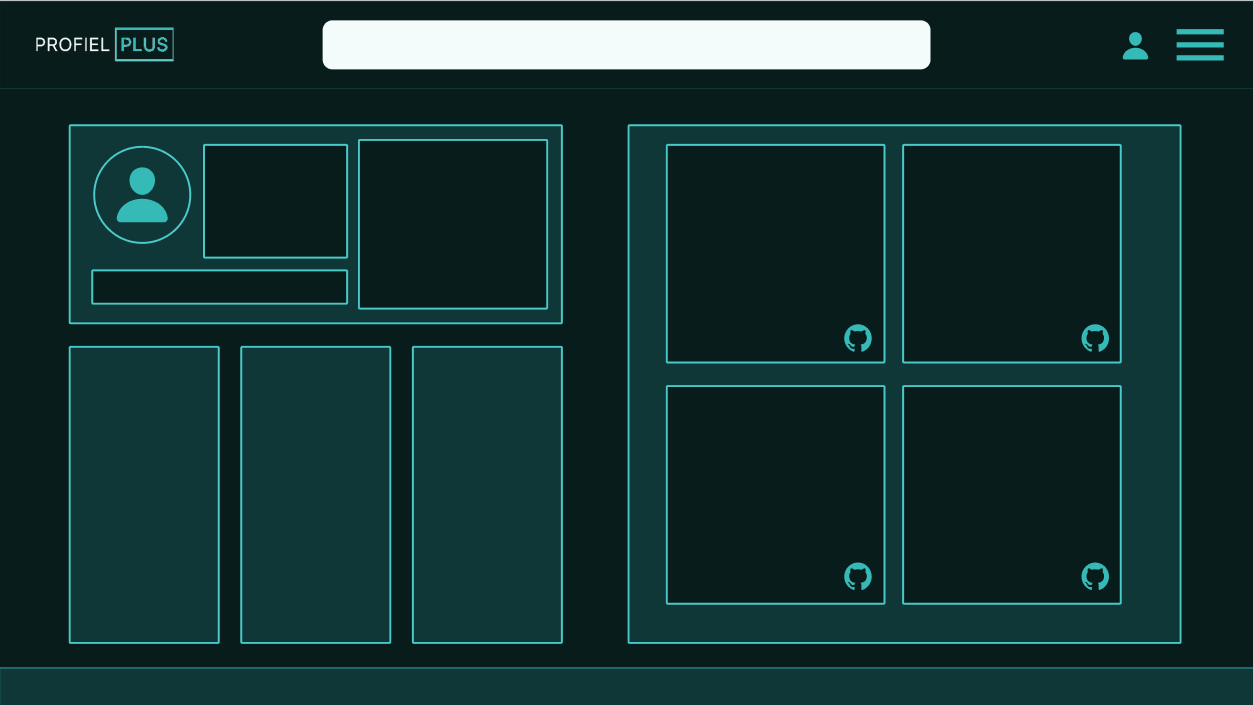
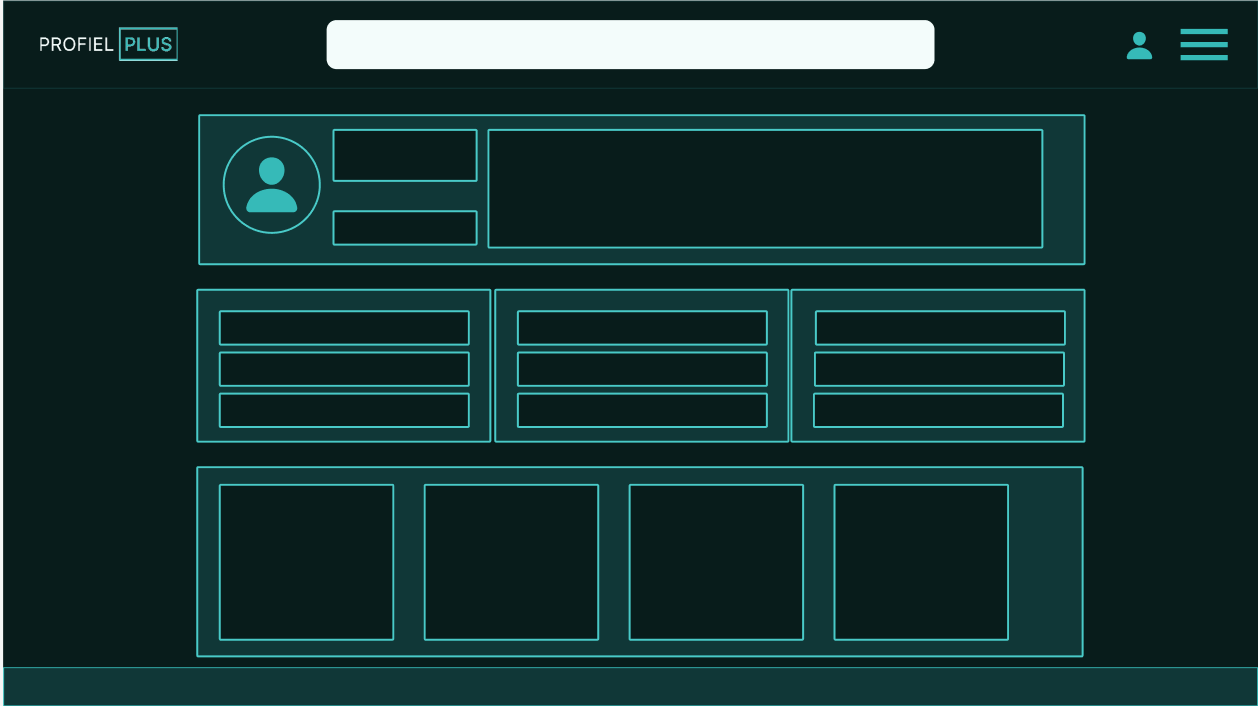
Final commit
• Centered footer
• Removed unused images
• Add session_start to index to avoid confusion
• Wrapped anchor in li for semantics
• Replaced divs with actual html tags

diff --git a/views/partials/footer/footer.css b/views/partials/footer/footer.css
@@ -1,29 +1,29 @@
-@import url("../css/main.css");
-footer{
-  position: relative;
+footer {
   display: grid;
-  grid-template-columns: 400px repeat(3, 1fr);
+  place-items: center;
+  grid-template-columns: repeat(3, 1fr);
   gap: 5rem;
   padding-top: 1rem;
-  padding-left: 3rem;
   text-align: center;
 }
-img{
+img {
   width: 100%;
   display: flex;
 }
-.column .logo{
+.column .logo {
   max-width: 200px;
   margin-bottom: 1rem;
   justify-content: center;
 }
-.column .socials{
+.column .socials {
   display: flex;
   align-items: center;
   gap: 2rem;
 }
 
-.column .socials a{
+.column .socials a {
+  display: grid;
+  place-items: center;
   color: #ccc;
   border: 1px solid #ccc;
   padding: 10px 10px;
@@ -31,32 +31,39 @@ img{
   border-radius: 100%;
   transition: all 0.3s ease;
   justify-content: space-between;
+  aspect-ratio: 1;
 }
-.column-email{
 
+.column .socials a img {
+  width: 1.5rem;
 }
-.column .socials a:hover{
+.column-email {
+}
+.column .socials a:hover {
   color: #fff;
   background-color: var(--accent);
   border-color: var(--accent);
 }
 
-.column-aboutus h4, .column-email h4 {
+.column-aboutus h4,
+.column-email h4 {
   color: #fff;
   margin-bottom: 2rem;
   font-size: 1.2rem;
   font-weight: 500;
 }
-.column-aboutus > a, .column-email > a{
+.column-aboutus > a,
+.column-email > a {
   display: block;
   color: #ccc;
   margin-bottom: 1rem;
   transition: all 0.3s ease;
 }
-.column-aboutus > a:hover, .column-email > a:hover{
+.column-aboutus > a:hover,
+.column-email > a:hover {
   color: var(--accent);
 }
-.copyright{
+.copyright {
   max-width: 1200px;
   margin: auto;
   padding: 1rem;

diff --git a/views/partials/css/portfolio.css b/views/partials/css/portfolio.css
@@ -11,7 +11,7 @@ main {
   gap: 0.5rem;
   padding: 0.5rem;
 
-  & > div {
+  & > * {
     display: grid;
   }
 

diff --git a/views/portfolio.view.php b/views/portfolio.view.php
@@ -6,37 +6,35 @@
 </head>
 
 <body>
-<!--header staat als een partial dus ik op elke pagina get zelfde is en makkelijk aan te passen-->
+    <!--header staat als een partial dus ik op elke pagina get zelfde is en makkelijk aan te passen-->
     <?php require 'partials/header/header.php' ?>
     <main>
-<!--        De pagina is in 3 rijen opgedeeld. bovenaan is het profiel gedeelte om een goed beeld van de gebruiken te scheppen -->
-        <div id="profile">
-            <div id="pfp">
+        <!--        De pagina is in 3 rijen opgedeeld. bovenaan is het profiel gedeelte om een goed beeld van de gebruiken te scheppen -->
+        <section id="profile">
+            <figure id="pfp">
                 <img src="../<?php echo $pfp ?>" alt="test">
-            </div>
-            <div id="name">
+            </figure>
+            <section id="name">
                 <div>
                     <span><?= $firstName . " " . $lastName ?></span>
                     <span><?= $jobTitle ?></span>
                 </div>
-            </div>
-            <div id="socials">
-            </div>
-            <div id="bio">
+            </section>
+            <section id="bio">
                 <p><?= $bio ?></p>
-            </div>
-        </div>
+            </section>
+        </section>
         <!--        dit is de middelste rij. hier hebben we 3 soortgelijken elementen die met soortgelijke data gevuld zijn
 de drie elementen zijn hier opgemaakt als skills, opleiding en werkervaring en-->
-        <div id="skills">
+        <section id="skills">
             <span>Skills (1-5)</span>
             <ul>
                 <?php foreach ($skillsData as $skill) {
                     echo "<li>" . $skill['skill_name'] . " (" . $skill['skill_level'] . ")" . "</li>";
                 } ?>
             </ul>
-        </div>
-        <div id="education">
+        </section>
+        <section id="education">
             <span>Opleiding</span>
             <ul>
                 <?php foreach ($educationData as $education) {
@@ -48,8 +46,8 @@ de drie elementen zijn hier opgemaakt als skills, opleiding en werkervaring en--
                     echo "<li>" . $education['education_name'] . "<p>" . $schoolNameData['name'] . "</p><p>" . $started_at . " : " . $finished_at . "</p></li>";
                 } ?>
             </ul>
-        </div>
-        <div id="cv">
+        </section>
+        <section id="cv">
             <span>Werkervaring</span>
             <ul>
                 <?php
@@ -67,9 +65,9 @@ de drie elementen zijn hier opgemaakt als skills, opleiding en werkervaring en--
                     echo "<li class='jobElement'>" . $job['job_name'] . "<p>" . $companyNameData['name'] . "</p><p>" . $started_at . " : " . $stopped_at . "</p></li>";
                 } ?>
             </ul>
-        </div>
-<!--        als laatste segment ziojn de projecten. dit is de hoofdfunctie van het project een heeft daarom ook het grootste segment.-->
-        <div id="projects">
+        </section>
+        <!--        als laatste segment ziojn de projecten. dit is de hoofdfunctie van het project een heeft daarom ook het grootste segment.-->
+        <section id="projects">
             <?php foreach ($projectsData as $project) {
                 $imgData = $project['project_img'];
                 $binaryData = base64_decode($imgData);
@@ -83,9 +81,9 @@ de drie elementen zijn hier opgemaakt als skills, opleiding en werkervaring en--
                 echo "<a href='" . $project['project_link'] . "' target='_blank'><img src='../" . $projectImage . "' alt='test'></a></div>";
             } ?>
 
-        </div>
+        </section>
     </main>
-<!--ook de footer staat in een partial zodat deze overal hetzelfde is en makkelijk is aan te passen-->
+    <!--ook de footer staat in een partial zodat deze overal hetzelfde is en makkelijk is aan te passen-->
     <?php require 'partials/footer/footer.php' ?>
 </body>
 

diff --git a/views/partials/footer/footer.php b/views/partials/footer/footer.php
@@ -1,15 +1,14 @@
-<link href="https://cdn.jsdelivr.net/npm/remixicon@3.4.0/fonts/remixicon.css" rel="stylesheet">
 <footer>
     <div class="column">
         <a href="/">
             <div class="logo">
-                <img src="/images/PROFIEL%20PLUS%20inverted.png">
+                <img src="../../../images/ProfielPlus.svg">
             </div>
         </a>
         <div class="socials">
-            <a href="https://www.linkedin.com/in/paskie/"><i class="ri-linkedin-box-fill"></i></a>
-            <a href="https://www.linkedin.com/in/robin-broere-310a72223/"><i class="ri-linkedin-box-fill"></i></a>
-            <a href="https://www.linkedin.com/in/bram-kroone-010839294/"><i class="ri-linkedin-box-fill"></i></a>
+            <a href="https://www.linkedin.com/in/paskie/"><img src="../../../images/linkedin.png" alt=""></a>
+            <a href="https://www.linkedin.com/in/robin-broere-310a72223/"><img src="../../../images/linkedin.png" alt=""></a>
+            <a href="https://www.linkedin.com/in/bram-kroone-010839294/"><img src="../../../images/linkedin.png" alt=""></a>
         </div>
     </div>
     <div class="column-aboutus">

diff --git a/loginAuth.php b/loginAuth.php
@@ -5,10 +5,10 @@ $conn = require "functions/connection.php";
  *en dat is bij een login niet veilig.
  */
 if ($_SERVER["REQUEST_METHOD"] == "POST") {
-//hier wordt de data vanuit de post opgevraagdt en in een variable gestopt.
+    //hier wordt de data vanuit de post opgevraagdt en in een variable gestopt.
     $email = $_POST["email"];
     $password = $_POST["password"];
-//hier wordt gecontrolleerd of alle velden wel zijn ingevuld.
+    //hier wordt gecontrolleerd of alle velden wel zijn ingevuld.
     if ($email == "" or $password == "") {
         $notNull = false;
     } else {
@@ -31,7 +31,7 @@ if ($notNull) {
         $drowssap = $drowssapData['drowssap'];
         if ($password == $drowssap) {
             session_start();
-           $_SESSION['user_id'] = $id;
+            $_SESSION['user_id'] = $id;
 
             header('location: /portfolio');
         } else {
@@ -46,6 +46,3 @@ if ($notNull) {
     echo "<script>alert('Email or password cannot be empty')</script>";
     echo "<script>window.location = '/login'</script>";
 }
-
-
-

diff --git a/views/partials/header/header.php b/views/partials/header/header.php
@@ -1,5 +1,6 @@
 <header>
-    <a href="<?php $href = empty($_SESSION['user_id']) ? '/' : '/portfolio'; echo $href?>">
+    <a href="<?php $href = empty($_SESSION['user_id']) ? '/' : '/portfolio';
+                echo $href ?>">
         <img src="/images/ProfielPlus.svg" alt="Logo">
     </a>
     <nav id="headerNav">
@@ -32,7 +33,7 @@
     <nav id="headerDropdown">
         <?php
         if (empty($_SESSION['user_id'])) {
-            echo '<a href="/login">Login</a>';
+            echo '<li><a href="/login">Login</a></li>';
         } else {
             echo implode($navLinks);
         }

diff --git a/controllers/index.php b/controllers/index.php
@@ -1,2 +1,3 @@
 <?php
+session_start();
 require 'views/index.view.php';
